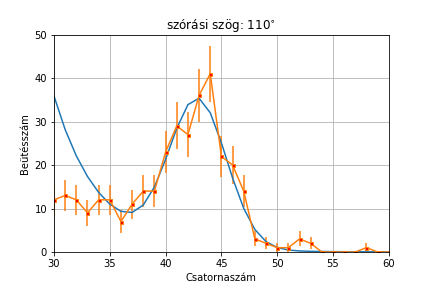
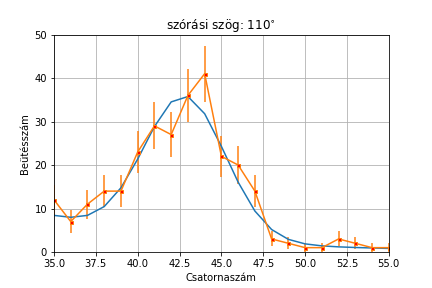
Started tex project and modified the '110' plots and data

diff --git a/latex/compton.tex b/latex/compton.tex
@@ -6,7 +6,7 @@
 \usepackage{geometry}
 \geometry{a4paper,
 		     tmargin = 35mm, 
-		     lmargin = 30mm,
+		     lmargin = 25mm,
 		     rmargin = 30mm,
 		     bmargin = 30mm}
 \usepackage{mathtools}
@@ -16,7 +16,9 @@
 \usepackage{amsmath,amssymb}
 \usepackage{float}
 
+
 \usepackage{indentfirst}
+\usepackage{subfig}
 
 \renewcommand\thesection{\Roman{section}}
 
@@ -62,6 +64,10 @@
 \item $^{137}Cs$, közvetett $\gamma$-foton forrás
 \end{itemize}
 
+\subsection{Mérési elrendezés}
+
+
+
 \vspace{2cm}
 
 \section{Elméleti összefoglaló}
@@ -89,13 +95,127 @@ alakban. Ahol $r_{0}$ a klasszikus elektronsugár, melynek értéke a Bohr-model
 
 \section{Mérési feladatok, kiértékelés}
 
+\subsection{Aktivitás, dózis}
+
 \par A $^{137}Cs$ minta aktivitása 1963. július 1-jén $486.55~MBq$ volt. A cézium felezési ideje $T = (11018 \pm 9.5)~nap$, míg az adott dátum óta eltelt napok száma a mérés időpontjáig $19 960~nap$ volt. Így az exponenciális bomlástörvény szerint, ma az aktivitás
 
 \begin{equation*}
 	A(t) = A_{0}2^{-\frac{t}{T}} = (138.61 \pm 0.08)~MBq
 \end{equation*}
 
+\par Mivel az elbomlott céziumokból további bomlás után nagyjából $94\%$-os valószínűséggel lesz $662~keV$-os $\gamma$-foton, így a másodpercenként közvetített teljes energia
 
+\begin{equation*}
+	\dot{E} = A(t)\eta E_{\gamma} = 1.38 \times 10^{-5} ~\frac{J}{s} 
+\end{equation*}
 
+amiből személyenként kapjuk az elnyelt dózist rendre akkor ha lenyeljük, 1 méterre vagyunk a forrástól, valamint ha 1 méterre, ólom árnyékolás választ el a forrástól
+
+\begin{center}
+\begin{tabular}{|c|c|c|}
+\hline
+dózis [mSv] - Dávid & dózis [mSv] - Marci & dózis [mSv] - Alex \\
+\hline
+3.15 & 2.25 & 2.4 \\
+\hline
+0.13 & 0.09 & 0.09 \\
+\hline
+5.69e-05 & 4.08e-05 & 4.27e-05 \\
+\hline
+\end{tabular}
+\end{center}
+
+ahol a mérés idejét 4 órának vettem és ezt helyettesíttem az adott képletekre melyek rendere
+
+\begin{gather*}
+D_{max} = \frac{\dot{E}\times 4\times 60\times 60}{m} \\
+D_{1m} = \frac{\dot{E}\times 4\times 60\times 60}{m} \frac{0.5}{4\times 1^{2} \pi} \\
+D_{1m, Pb} = \frac{\dot{E}\times 4\times 60\times 60}{m} \frac{0.5}{4\times 1^{2} \pi} \times e^{-10}
+\end{gather*}
+
+\par Látható, hogy árnyékolással és megfelelő távolságtartással nem számottevő a labor alatt elnyelt dózis, azonban ha közvetlenül a szerezetbe kerülne, már számottevő többlet dózist lehetne kapni.
+
+\par Feladat volt még megbecsülni a $\vartheta = 0^{\circ}$ szögben, az elektron detektorra érkező fotonok számát másodpercenként. Ehhez felhasználva a mérési összeállítás geometriáját
+
+\begin{equation*}
+	N_{(foton, \vartheta = 0^{\circ})} = \frac{0.3^{2}}{4(17.33-3.38)^{2}}\times 138.61 ~(MBq) \times 1 ~(s) \approx 16 000
+\end{equation*} 
+
+\par Azonban ezalatt a mérés során ehhez kapcsolódóan nem volt több feladatunk.
+
+\subsection{Szögfüggés vizsgálata}
+
+\par A szögfüggéshez tartozó sokcsatornás beütésszámlálóval 10 különböző szöget vizsgáltunk mindegyiknék nagyjából $1000~s$-ig. Harminc fokról indulva, száztíz fokig néztük meg a beütésket, majd a hisztogrammokra exponenciális háttérrel, a Compton-csúcsra Gauss-görbét illesztettünk. Az illesztett adatok táblázatba foglalva
+
+\begin{center}
+\begin{tabular}{|c|c|c|c|c|c|c|c|}
+\hline
+szög [$^{\circ}$] & csatorna & szórás & terület & csatorna hiba & szórás hiba & terület hiba & idő [t] \\
+\hline
+30 & 89.73 & 3.2288 & 165.78 & 0.3738 & 0.22815 & 11.956 & 1224 \\
+\hline
+40 & 82.305 & 3.1082 & 173.28 & 0.36105 & 0.43538 & 34.751 & 1085 \\
+\hline
+50 & 74.374 & 2.4315 & 120.05 & 0.42373 & 0.27387 & 12.494 & 1002 \\
+\hline
+60 & 66.148 & 1.9553 & 84.611 & 0.42954 & 0.42577 & 25.977 & 962 \\
+\hline
+70 & 60.631 & 1.9307 & 107.55 & 0.24439 & 0.22981 & 14.833 & 1166 \\
+\hline
+80 & 54.489 & 2.3095 & 121.37 & 0.33175 & 0.20426 & 11.257 & 1100 \\
+\hline
+90 & 50.916 & 1.6683 & 99.523 & 0.37857 & 0.26849 & 17.898 & 977 \\
+\hline
+100 & 46.6247 & 1.4583 & 100.78 & 0.18966 & 0.12546 & 9.413 & 1113 \\
+\hline
+110 & 42.881 & 1.8229 & 154.67 & 0.33516 & 0.31118 & 43.591 & 1098 \\
+\hline
+\end{tabular}
+\end{center}
+
+\par A görbéket a $matplotlib$ könyvtárral illesztettük exponenciális háttérrel, amely paramétreit itt nem tűntettük fel. Az ábrák a kövekezőképpen festenek
+
+\begin{figure}[!htb]
+    \centering
+    \begin{minipage}{.49\textwidth}
+        \centering
+        \includegraphics[width=1.\linewidth]{../plots/withbackground/30_1224fit.png}
+    \end{minipage}
+    \begin{minipage}{.49\textwidth}
+        \centering
+        \includegraphics[width=1.\linewidth]{../plots/withbackground/40_1085fit.png}
+    \end{minipage}
+    \begin{minipage}{.49\textwidth}
+        \centering
+        \includegraphics[width=1.\linewidth]{../plots/withbackground/50_1002fit.png}
+    \end{minipage}%
+    \begin{minipage}{.49\textwidth}
+        \centering
+        \includegraphics[width=1.\linewidth]{../plots/withbackground/60_962fit.png}
+    \end{minipage}
+\end{figure}
+\begin{figure}[!htb]
+    \begin{minipage}{.49\textwidth}
+        \centering
+        \includegraphics[width=1.\linewidth]{../plots/withbackground/70_1166fit.png}
+    \end{minipage}%
+    \begin{minipage}{.49\textwidth}
+        \centering
+        \includegraphics[width=1.\linewidth]{../plots/withbackground/80_1100fit.png}
+    \end{minipage}
+    \begin{minipage}{.49\textwidth}
+        \centering
+        \includegraphics[width=1.\linewidth]{../plots/withbackground/90_977fit.png}
+    \end{minipage}
+    \begin{minipage}{.49\textwidth}
+        \centering
+        \includegraphics[width=1.\linewidth]{../plots/withbackground/100_1113fit.png}
+    \end{minipage}
+    \begin{minipage}{.49\textwidth}
+        \centering
+        \includegraphics[width=1.\linewidth]{../plots/withbackground/110_1098fit.png}
+    \end{minipage}
+\end{figure}	
+\end{document}
 
 \end{document}

diff --git a/latex/szogCsucsTeruletMegSokMindenTablazatKieg.tex b/latex/szogCsucsTeruletMegSokMindenTablazatKieg.tex
@@ -1,0 +1,9 @@
+\begin{center}
+\begin{tabular}{|c|c|c|c|c|c|c|c|}
+\hline
+dfdfs & asdas & sd & as & das & das & d & asd \\
+\hline
+110 & 42.881 & 1.8229 & 154.67 & 0.33516 & 0.31118 & 43.591 & 1098 \\
+\hline
+\end{tabular}
+\end{center}

diff --git a/latex/dozis.tex b/latex/dozis.tex
@@ -1,0 +1,13 @@
+\begin{center}
+\begin{tabular}{|c|c|c|}
+\hline
+gfgh & fghf & fgh \\
+\hline
+3.15 & 2.25 & 2.4 \\
+\hline
+0.13 & 0.09 & 0.09 \\
+\hline
+5.69e-05 & 4.08e-05 & 4.27e-05 \\
+\hline
+\end{tabular}
+\end{center}
